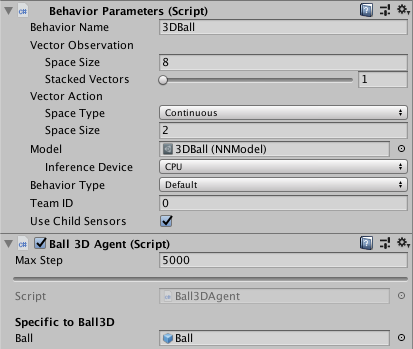
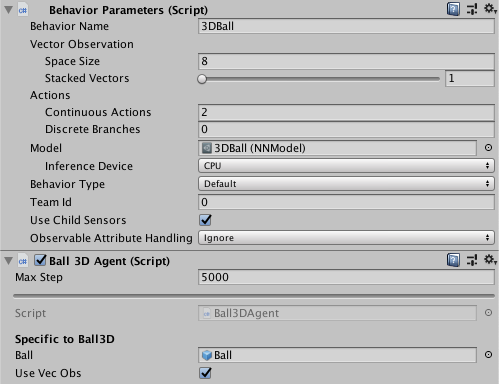
Rename Actions in BrainParameter drawers, Update tutorial docs (#4748)

Changed region(s): [[0.0, 0.0, 1.0, 1.0]]

diff --git a/com.unity.ml-agents/Editor/BrainParametersDrawer.cs b/com.unity.ml-agents/Editor/BrainParametersDrawer.cs
@@ -95,7 +95,7 @@ namespace Unity.MLAgents.Editor
         /// to make the custom GUI for.</param>
         static void DrawVectorAction(Rect position, SerializedProperty property)
         {
-            EditorGUI.LabelField(position, "Vector Action");
+            EditorGUI.LabelField(position, "Actions");
             position.y += k_LineHeight;
             EditorGUI.indentLevel++;
             var actionSpecProperty = property.FindPropertyRelative(k_ActionSpecName);
@@ -116,7 +116,7 @@ namespace Unity.MLAgents.Editor
             EditorGUI.PropertyField(
                 position,
                 continuousActionSize,
-                new GUIContent("Continuous Action Size", "Length of continuous action vector."));
+                new GUIContent("Continuous Actions", "Number of continuous actions."));
         }
 
         /// <summary>
@@ -129,7 +129,7 @@ namespace Unity.MLAgents.Editor
         {
             var branchSizes = property.FindPropertyRelative(k_DiscreteBranchSizeName);
             var newSize = EditorGUI.IntField(
-                position, "Discrete Branch Size", branchSizes.arraySize);
+                position, "Discrete Branches", branchSizes.arraySize);
 
             // This check is here due to:
             // https://fogbugz.unity3d.com/f/cases/1246524/

diff --git a/docs/Learning-Environment-Create-New.md b/docs/Learning-Environment-Create-New.md
@@ -60,7 +60,7 @@ to seek, and a Sphere to represent the Agent itself.
 ### Create the Floor Plane
 
 1. Right click in Hierarchy window, select 3D Object > Plane.
-1. Name the GameObject "Floor."
+1. Name the GameObject "Floor".
 1. Select the Floor Plane to view its properties in the Inspector window.
 1. Set Transform to Position = `(0, 0, 0)`, Rotation = `(0, 0, 0)`, Scale =
    `(1, 1, 1)`.
@@ -74,7 +74,7 @@ to seek, and a Sphere to represent the Agent itself.
 ### Add the Target Cube
 
 1. Right click in Hierarchy window, select 3D Object > Cube.
-1. Name the GameObject "Target"
+1. Name the GameObject "Target".
 1. Select the Target Cube to view its properties in the Inspector window.
 1. Set Transform to Position = `(3, 0.5, 3)`, Rotation = `(0, 0, 0)`, Scale =
    `(1, 1, 1)`.
@@ -88,29 +88,17 @@ to seek, and a Sphere to represent the Agent itself.
 ### Add the Agent Sphere
 
 1. Right click in Hierarchy window, select 3D Object > Sphere.
-1. Name the GameObject "RollerAgent"
+1. Name the GameObject "RollerAgent".
 1. Select the RollerAgent Sphere to view its properties in the Inspector window.
 1. Set Transform to Position = `(0, 0.5, 0)`, Rotation = `(0, 0, 0)`, Scale =
    `(1, 1, 1)`.
 1. Click **Add Component**.
 1. Add the `Rigidbody` component to the Sphere.
 
-<p align="left">
-  <img src="images/roller-ball-agent.png"
-       alt="The Agent GameObject in the Inspector window"
-       width="400" border="10" />
-</p>
+### Group into Training Area
 
-Note that the screenshot above includes the `Roller Agent` script, which we will
-create in the next section. However, before we do that, we'll first group the
-floor, target and agent under a single, empty, GameObject. This will simplify
+Group the floor, target and agent under a single, empty, GameObject. This will simplify
 some of our subsequent steps.
-
-<p align="left">
-  <img src="images/roller-ball-hierarchy.png"
-       alt="The Hierarchy window"
-       width="250" border="10" />
-</p>
 
 To do so:
 
@@ -121,9 +109,15 @@ To do so:
 1. Drag the Floor, Target, and RollerAgent GameObjects in the Hierarchy into the
    TrainingArea GameObject.
 
+<p align="left">
+  <img src="images/roller-ball-hierarchy.png"
+       alt="The Hierarchy window"
+       width="250" border="10" />
+</p>
+
 ## Implement an Agent
 
-To create the Agent:
+To create the Agent Script:
 
 1. Select the RollerAgent GameObject to view it in the Inspector window.
 1. Click **Add Component**.
@@ -135,11 +129,15 @@ Then, edit the new `RollerAgent` script:
 
 1. In the Unity Project window, double-click the `RollerAgent` script to open it
    in your code editor.
-1. In the editor, add the `using Unity.MLAgents;` and
-   `using Unity.MLAgents.Sensors;` statements and then change the base class from
-   `MonoBehaviour` to `Agent`.
-1. Delete the `Update()` method, but we will use the `Start()` function, so
-   leave it alone for now.
+1. Import ML-Agent package by adding
+
+   ```csharp
+   using Unity.MLAgents;
+   using Unity.MLAgents.Sensors;
+   using Unity.MLAgents.Actuators;
+   ```
+   then change the base class from `MonoBehaviour` to `Agent`.
+1. Delete `Update()` since we are not using it, but keep `Start()`.
 
 So far, these are the basic steps that you would use to add ML-Agents to any
 Unity project. Next, we will add the logic that will let our Agent learn to roll
@@ -158,14 +156,14 @@ The process of training in the ML-Agents Toolkit involves running episodes where
 the Agent (Sphere) attempts to solve the task. Each episode lasts until the
 Agents solves the task (i.e. reaches the cube), fails (rolls off the platform)
 or times out (takes too long to solve or fail at the task). At the start of each
-episode, the `OnEpisodeBegin()` method is called to set-up the environment for a
+episode, `OnEpisodeBegin()` is called to set-up the environment for a
 new episode. Typically the scene is initialized in a random manner to enable the
 agent to learn to solve the task under a variety of conditions.
 
-In this example, each time the Agent (Sphere) reaches its target (Cube), its
-episode ends and the method moves the target (Cube) to a new random location. In
-addition, if the Agent rolls off the platform, the `OnEpisodeBegin()` method
-puts it back onto the floor.
+In this example, each time the Agent (Sphere) reaches its target (Cube), the
+episode ends and the target (Cube) is moved to a new random location; and if
+the Agent rolls off the platform, it will be put back onto the floor.
+These are all handled in `OnEpisodeBegin()`.
 
 To move the target (Cube), we need a reference to its Transform (which stores a
 GameObject's position, orientation and scale in the 3D world). To get this
@@ -202,9 +200,9 @@ public class RollerAgent : Agent
     public Transform Target;
     public override void OnEpisodeBegin()
     {
+       // If the Agent fell, zero its momentum
         if (this.transform.localPosition.y < 0)
         {
-            // If the Agent fell, zero its momentum
             this.rBody.angularVelocity = Vector3.zero;
             this.rBody.velocity = Vector3.zero;
             this.transform.localPosition = new Vector3( 0, 0.5f, 0);
@@ -257,13 +255,13 @@ receives actions and assigns the reward.
 #### Actions
 
 To solve the task of moving towards the target, the Agent (Sphere) needs to be
-able to move in the `x` and `z` directions. As such, we will provide 2 actions
-to the agent. The first determines the force applied along the x-axis; the
+able to move in the `x` and `z` directions. As such, the agent needs 2 actions:
+the first determines the force applied along the x-axis; and the
 second determines the force applied along the z-axis. (If we allowed the Agent
-to move in three dimensions, then we would need a third action.
+to move in three dimensions, then we would need a third action.)
 
 The RollerAgent applies the values from the `action[]` array to its Rigidbody
-component, `rBody`, using the `Rigidbody.AddForce` function:
+component `rBody`, using `Rigidbody.AddForce()`:
 
 ```csharp
 Vector3 controlSignal = Vector3.zero;
@@ -274,16 +272,16 @@ rBody.AddForce(controlSignal * forceMultiplier);
 
 #### Rewards
 
-Reinforcement learning requires rewards. Assign rewards in the
-`OnActionReceived()` function. The learning algorithm uses the rewards assigned
-to the Agent during the simulation and learning process to determine whether it
+Reinforcement learning requires rewards to signal which decisions are good and
+which are bad. The learning algorithm uses the rewards to determine whether it
 is giving the Agent the optimal actions. You want to reward an Agent for
 completing the assigned task. In this case, the Agent is given a reward of 1.0
 for reaching the Target cube.
 
-The RollerAgent calculates the distance to detect when it reaches the target.
-When it does, the code calls the `Agent.SetReward()` method to assign a reward
-of 1.0 and marks the agent as finished by calling the `EndEpisode()` method on
+Rewards are assigned in `OnActionReceived()`. The RollerAgent
+calculates the distance to detect when it reaches the target.
+When it does, the code calls `Agent.SetReward()` to assign a reward
+of 1.0 and marks the agent as finished by calling `EndEpisode()` on
 the Agent.
 
 ```csharp
@@ -309,8 +307,8 @@ if (this.transform.localPosition.y < 0)
 
 #### OnActionReceived()
 
-With the action and reward logic outlined above, the final version of the
-`OnActionReceived()` function looks like:
+With the action and reward logic outlined above, the final version of
+`OnActionReceived()` looks like:
 
 ```csharp
 public float forceMultiplier = 10;
@@ -340,29 +338,34 @@ public override void OnActionReceived(ActionBuffers actionBuffers)
 }
 ```
 
-Note the `forceMultiplier` class variable is defined before the function. Since `forceMultiplier` is
-public, you can set the value from the Inspector window.
+Note the `forceMultiplier` class variable is defined before the method definition.
+Since `forceMultiplier` is public, you can set the value from the Inspector window.
 
-## Final Editor Setup
+## Final Agent Setup in Editor
 
-Now, that all the GameObjects and ML-Agent components are in place, it is time
-to connect everything together in the Unity Editor. This involves changing some
-of the Agent Component's properties so that they are compatible with our Agent
-code.
+Now that all the GameObjects and ML-Agent components are in place, it is time
+to connect everything together in the Unity Editor. This involves adding and
+setting some of the Agent Component's properties so that they are compatible
+with our Agent script.
 
 1. Select the **RollerAgent** GameObject to show its properties in the Inspector
    window.
 1. Drag the Target GameObject in the Hierarchy into the `Target` field in RollerAgent Script.
-1. Add the `Decision Requester` script with the Add Component button from the
-   RollerAgent Inspector.
-1. Change **Decision Period** to `10`. For more information on decisions, see [the Agent documentation](Learning-Environment-Design-Agents.md#decisions)
-1. Add the `Behavior Parameters` script with the Add Component button from the
-   RollerAgent Inspector.
-1. Modify the Behavior Parameters of the Agent :
-   - `Behavior Name` to _RollerBall_
+1. Add a `Decision Requester` script with the **Add Component** button.
+   Set the **Decision Period** to `10`. For more information on decisions,
+   see [the Agent documentation](Learning-Environment-Design-Agents.md#decisions)
+1. Add a `Behavior Parameters` script with the **Add Component** button.
+   Set the Behavior Parameters of the Agent to the following:
+   - `Behavior Name`: _RollerBall_
    - `Vector Observation` > `Space Size` = 8
-   - `Vector Action` > `Space Type` = **Continuous**
-   - `Vector Action` > `Space Size` = 2
+   - `Actions` > `Continuous Actions` = 2
+
+In the inspector, the `RollerAgent` should look like this now:
+<p align="left">
+  <img src="images/roller-ball-agent.png"
+       alt="The Agent GameObject in the Inspector window"
+       width="400" border="5" />
+</p>
 
 Now you are ready to test the environment before training.
 
